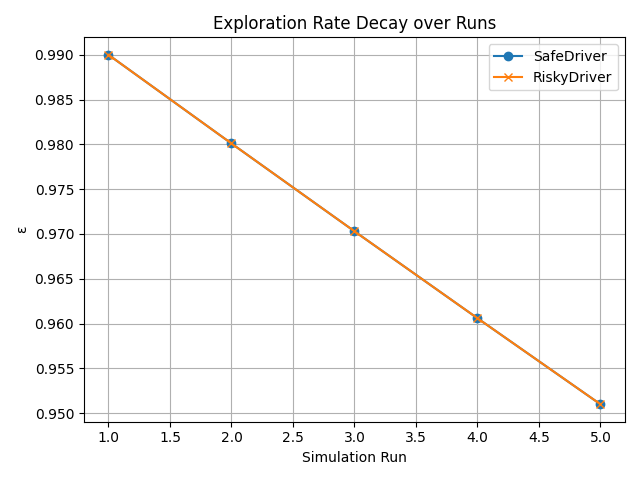
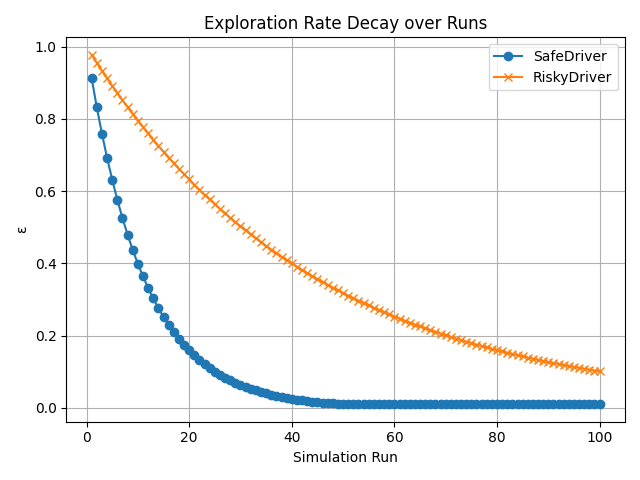
feat: added different rates of epsilon decay for agents

diff --git a/src/simulation/batch.py b/src/simulation/batch.py
@@ -20,16 +20,18 @@ CSV_DIR = os.path.join(os.path.dirname(__file__), "csv_results")
 
 
 def main(num_runs: int = 100):
-    runner = SimulationRunner(SUMO_BINARY, SUMO_CONFIG)
+    # ensure output directory exists
+    os.makedirs(CSV_DIR, exist_ok=True)
+
+    runner    = SimulationRunner(SUMO_BINARY, SUMO_CONFIG)
     collector = MetricsCollector()
-    exporter = CsvExporter()
+    exporter  = CsvExporter()
+    mgr       = AgentManager()
 
-    mgr = AgentManager()
-    eps_history_safe = []
-    eps_history_risky = []
-
-    all_runs = []
-    successful = 0
+    eps_history_safe   = []
+    eps_history_risky  = []
+    all_runs           = []
+    successful         = 0
 
     for i in range(1, num_runs + 1):
         print(f"\n>>> Starting simulation run {i}/{num_runs}")
@@ -38,8 +40,8 @@ def main(num_runs: int = 100):
             all_runs.append((run_data, route_idx))
             successful += 1
 
-            # Decay exploration after each run for both drivers
-            mgr.decay_exploration(decay_rate=0.99, min_epsilon=0.05)
+            # agent-specific exponential decay (no args)
+            mgr.decay_exploration()
             eps_history_safe.append(mgr.safe_driver.qtable.epsilon)
             eps_history_risky.append(mgr.risky_driver.qtable.epsilon)
 
@@ -53,7 +55,7 @@ def main(num_runs: int = 100):
     # Plot ε-decay over runs for both drivers
     plt.figure()
     runs = list(range(1, len(eps_history_safe) + 1))
-    plt.plot(runs, eps_history_safe, marker="o", label="SafeDriver")
+    plt.plot(runs, eps_history_safe,  marker="o", label="SafeDriver")
     plt.plot(runs, eps_history_risky, marker="x", label="RiskyDriver")
     plt.title("Exploration Rate Decay over Runs")
     plt.xlabel("Simulation Run")
@@ -65,8 +67,7 @@ def main(num_runs: int = 100):
     plt.savefig(eps_path)
     print(f"[Plot] ε-decay saved to {eps_path}")
 
-    # Prepare dataframes and heatmaps for both SafeDriver and RiskyDriver
-
+    # build a DataFrame of Q-values for heatmaps
     def build_q_df(qtable):
         records = []
         for (phase, dist_b, speed_b), qvals in qtable.Q.items():
@@ -81,15 +82,15 @@ def main(num_runs: int = 100):
         return pd.DataFrame(records)
 
     # SafeDriver heatmap
-    qt_safe = mgr.safe_driver.qtable
-    df_q_safe = build_q_df(qt_safe)
+    qt_safe    = mgr.safe_driver.qtable
+    df_q_safe  = build_q_df(qt_safe)
 
     # RiskyDriver heatmap
-    qt_risky = mgr.risky_driver.qtable
+    qt_risky   = mgr.risky_driver.qtable
     df_q_risky = build_q_df(qt_risky)
 
-    phases = ["GREEN", "AMBER", "RED"]
-    speed_bins = [0, 1, 2]
+    phases      = ["GREEN", "AMBER", "RED"]
+    speed_bins  = [0, 1, 2]
     dist_labels = ["0-10", "10-20", "20-40", ">40"]
     speed_labels = {
         0: "Stopped (0 m/s)",
@@ -163,7 +164,7 @@ def main(num_runs: int = 100):
         out_filename="Q_heatmap_grid_risky.png"
     )
 
-    # Per-run CSV export
+    # Export per-run CSV
     per_rows = []
     for data, ridx in all_runs:
         per_rows += collector.summarise_run(data, ridx)
@@ -178,9 +179,7 @@ def main(num_runs: int = 100):
         rows=per_rows
     )
 
-    # -------------------------------------------------------------------------
-    # Averages CSV export
-    # -------------------------------------------------------------------------
+    # Export averages CSV
     avg_rows = collector.compute_averages(all_runs)
     exporter.to_file(
         os.path.join(CSV_DIR, "simulation_averages.csv"),
@@ -196,4 +195,4 @@ def main(num_runs: int = 100):
 
 
 if __name__ == "__main__":
-    main(5)
+    main(100)

diff --git a/src/agents/agent_manager.py b/src/agents/agent_manager.py
@@ -120,22 +120,38 @@ class AgentManager:
     def get_route_label(self) -> int:
         return self.chosen_route_index
 
-    def decay_exploration(
-        self, decay_rate: float = 0.99, min_epsilon: float = 0.01
-    ) -> None:
+    def decay_exploration(self) -> None:
         """
-        Apply ε-decay to both safe and risky drivers and reset their
-        episode-specific memory.
+        Apply **agent-specific exponential** ε-decay schedules:
+        - RiskyDriver: ε₀=0.99 → εₘᵢₙ=0.10 over 100 episodes
+        - SafeDriver:  ε₀=0.99 → εₘᵢₙ=0.01 over 50 episodes
+        Resets each driver’s episode memory afterward.
         """
-        for driver in (self.safe_driver, self.risky_driver):
-            if driver and hasattr(driver, "qtable"):
-                old_eps = driver.qtable.epsilon
-                driver.qtable.epsilon = max(min_epsilon, old_eps * decay_rate)
-                driver.prev_state  = None
-                driver.last_action = None
-                logger.info(
-                    "Epsilon decayed for %s: %.3f → %.3f",
-                    driver.__class__.__name__,
-                    old_eps,
-                    driver.qtable.epsilon,
-                )
+        # targets and horizons
+        e0, min_risky, runs_risky = 0.99, 0.10, 100
+        _,    min_safe,  runs_safe  = 0.99, 0.01,  50
+
+        # compute decay rates so that e0 * decay_rate**n = εₘᵢₙ
+        decay_risky = (min_risky / e0) ** (1.0 / runs_risky)
+        decay_safe  = (min_safe  / e0) ** (1.0 / runs_safe)
+
+        # RiskyDriver decay
+        old = self.risky_driver.qtable.epsilon
+        self.risky_driver.qtable.decay_epsilon(decay_rate=decay_risky,
+                                            min_epsilon=min_risky)
+        logger.info("RiskyDriver ε: %.4f → %.4f", old,
+                    self.risky_driver.qtable.epsilon)
+        # reset episode state
+        self.risky_driver.prev_state = None
+        self.risky_driver.last_action = None
+
+        # SafeDriver decay
+        old = self.safe_driver.qtable.epsilon
+        self.safe_driver.qtable.decay_epsilon(decay_rate=decay_safe,
+                                            min_epsilon=min_safe)
+        logger.info("SafeDriver ε: %.4f → %.4f", old,
+                    self.safe_driver.qtable.epsilon)
+        # reset episode state
+        self.safe_driver.prev_state = None
+        self.safe_driver.last_action = None
+
